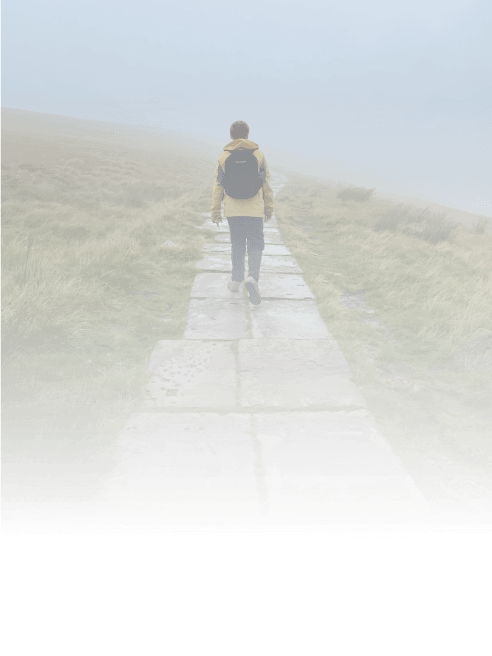
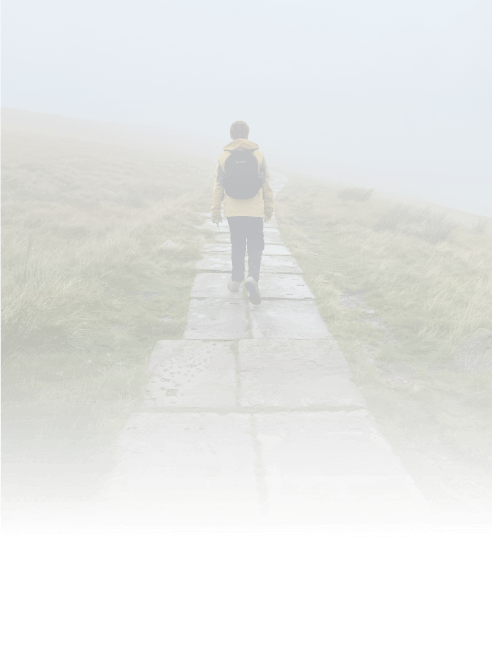
🤓 work smarter not harder
it turns out that using the body::before trick was more pain than it was worth, particularly when the viewport was streched by users zooming. So I've manually added the required opacity to the hero-image and use :has(body.default) to detect the default page

Changed region(s): [[0.0, 0.0, 1.0, 0.4268]]

diff --git a/static/style.css b/static/style.css
@@ -22,31 +22,26 @@
     --color-heading: #818cab;
 }
 
-
+html {
+    background-color: var(--color-bg);
+}
 
 body {
     font-family: -apple-system, BlinkMacSystemFont, "Segoe UI", Helvetica, Arial, sans-serif, "Apple Color Emoji", "Segoe UI Emoji";
     max-width: 90%;
+    height: 100vh;
     margin: 0 auto;
     font-size: calc(1rem + 0.25vh);
     line-height: 1.5;
     color: var(--color-font);
-    background-color: var(--color-bg);
 }
 
-body.default:before {
-    content: ' ';
-    display: block;
-    position: absolute;
-    left: 0;
-    top: 0;
-    width: 100%;
-    height: 100%;
-    opacity: 0.3;
+html:has(body.default) {
     background-image: url('/static/images/hero-image.png');
     background-repeat: no-repeat;
     background-position: 50% 0;
     background-size: cover;
+    background-attachment: scroll;
 }
 
 body.default header,
